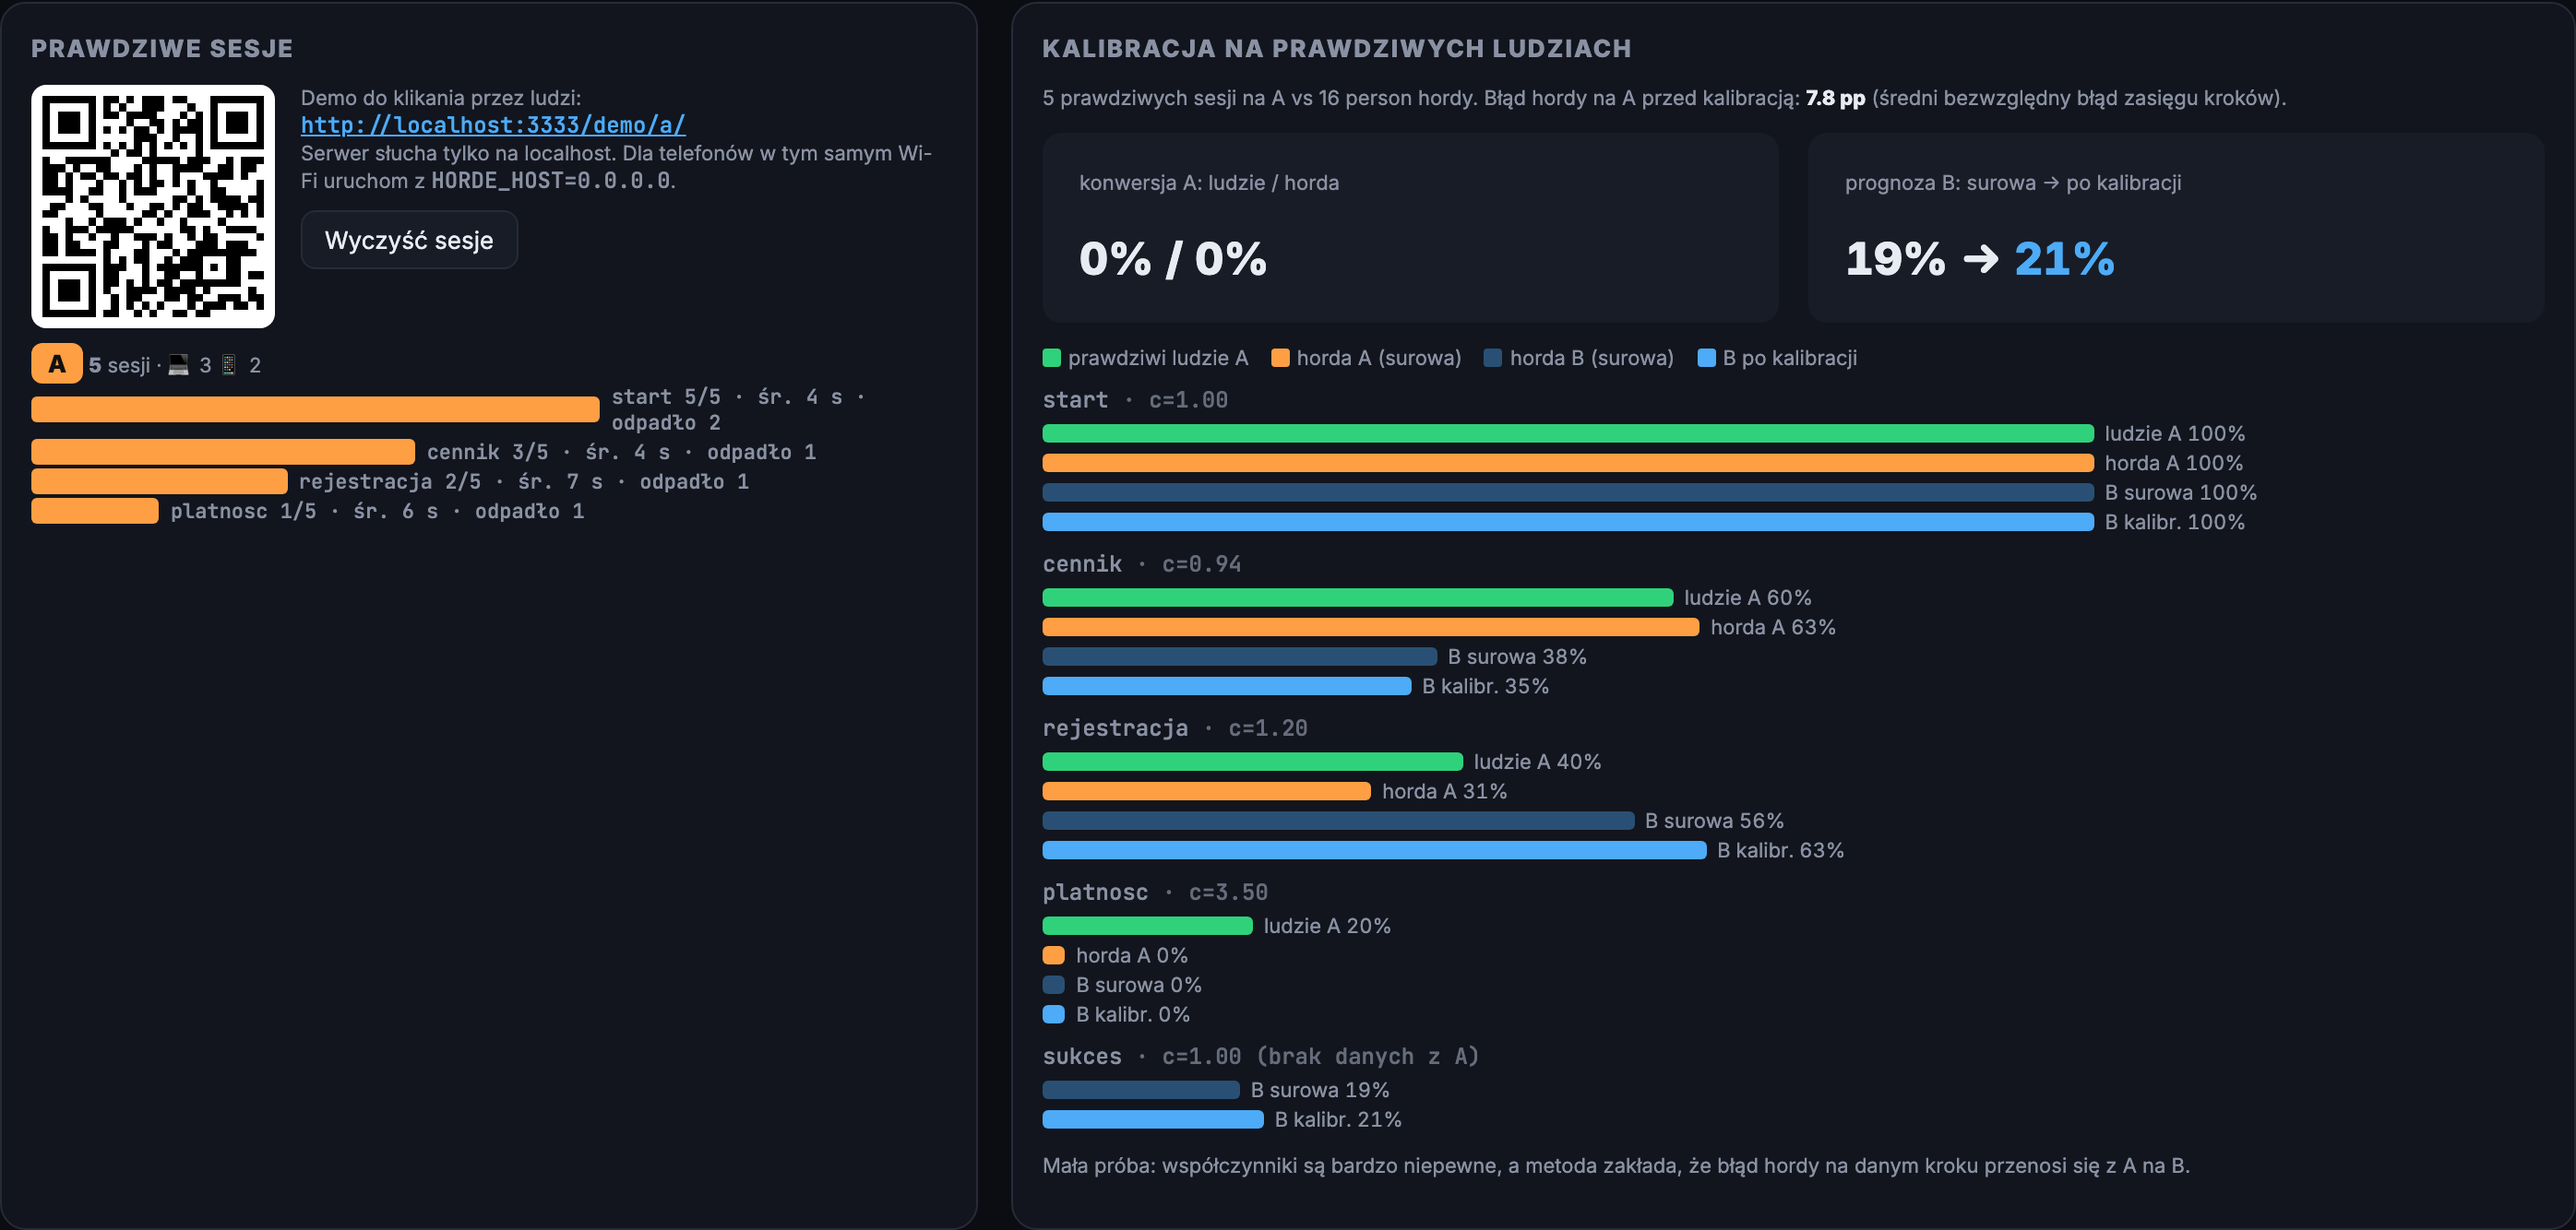
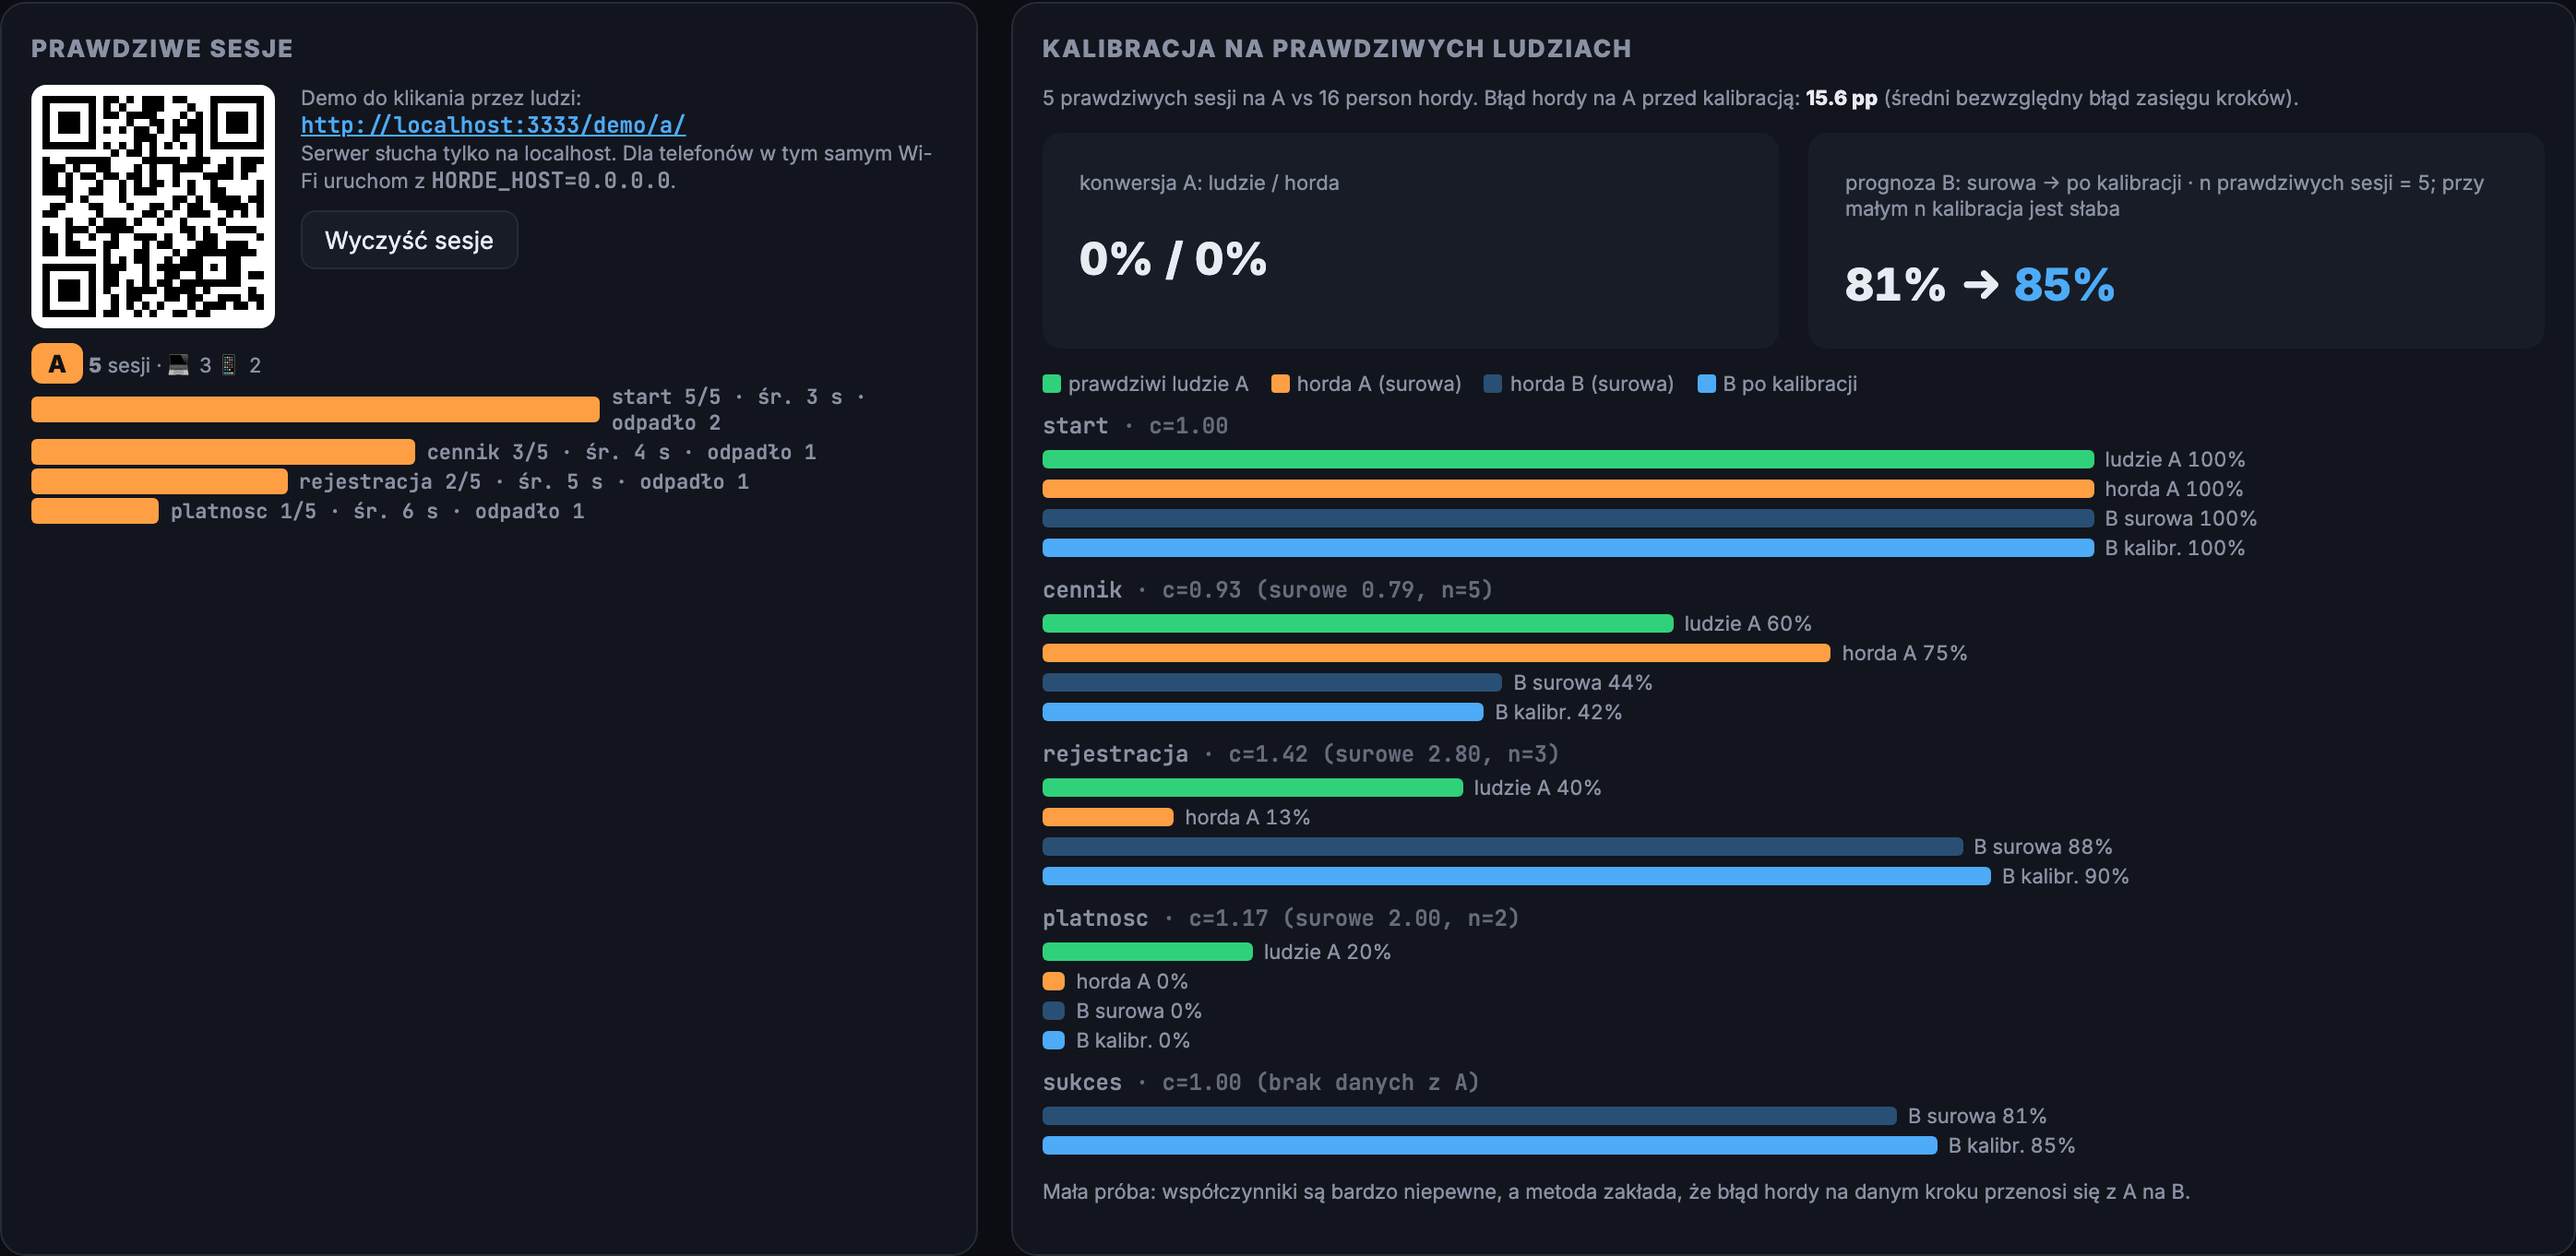
Horda: kalibracja ściągana do 1 przy małym n, w skali szans

diff --git a/horda/lib/sessions.js b/horda/lib/sessions.js
@@ -84,8 +84,9 @@ export function twinPersonas(personas, sessions, goal) {
 }
 
 // Kalibracja: porównujemy zasięg kroków lejka na A (prawdziwi ludzie vs horda) i przenosimy poprawkę na B.
-// c_k = real_cont_k / horde_cont_k, gdzie cont_k = (n_k + 1) / (n_{k-1} + 2) (wygładzenie Laplace'a), c_k ∈ [0.2, 5].
-// Prognoza B: zasięg kroku k = surowy zasięg B × iloczyn c_j po krokach B do k (kroki spoza A mają c = 1).
+// c_k = real_cont_k / horde_cont_k, gdzie cont_k = (n_k + 1) / (n_{k-1} + 2) (wygładzenie Laplace'a), surowe c_k ∈ [0.2, 5],
+// potem ściągnięte do 1: c_k = 1 + (c_k - 1) · n / (n + 10), n = prawdziwe sesje na kroku k-1, i przycięte do [0.5, 2].
+// Prognoza B: szanse zasięgu kroku k = szanse surowego zasięgu B × iloczyn c_j po krokach B do k (kroki spoza A mają c = 1).
 export function calibrate(realSessionsA, run, goal = 'sukces') {
   const results = run.results.filter(r => r.converted || !['limit_budzetu', 'blad_modelu', 'przerwane'].includes(r.reason));
   const hA = results.filter(r => r.variant === 'A'), hB = results.filter(r => r.variant === 'B');
@@ -98,19 +99,25 @@ export function calibrate(realSessionsA, run, goal = 'sukces') {
   const count = (paths, st) => paths.filter(p => p.includes(st)).length;
   const realPaths = realSessionsA.map(s => s.path), aPaths = hA.map(r => r.path), bPaths = hB.map(r => r.path);
   const stepsA = order.filter(st => count(realPaths, st) || count(aPaths, st));
-  const factor = {};
+  const factor = {}, rawFactor = {}, nReal = {};
   stepsA.forEach((st, k) => {
     if (k === 0) { factor[st] = 1; return; }
     const prev = stepsA[k - 1];
-    const realCont = (count(realPaths, st) + 1) / (count(realPaths, prev) + 2);
+    const nPrev = count(realPaths, prev);
+    const realCont = (count(realPaths, st) + 1) / (nPrev + 2);
     const hordeCont = (count(aPaths, st) + 1) / (count(aPaths, prev) + 2);
-    factor[st] = Math.max(0.2, Math.min(5, realCont / hordeCont));
+    const raw = Math.max(0.2, Math.min(5, realCont / hordeCont));
+    // Ściąganie do 1 przy małej próbie: przy n prawdziwych sesjach na poprzednim kroku zostaje n/(n+10) poprawki.
+    factor[st] = Math.max(0.5, Math.min(2, 1 + (raw - 1) * nPrev / (nPrev + 10)));
+    rawFactor[st] = raw; nReal[st] = nPrev;
   });
   const steps = order.map(st => ({
     step: st,
     realA: count(realPaths, st) / realPaths.length,
     hordeA: count(aPaths, st) / aPaths.length,
     c: factor[st] ?? 1,
+    cRaw: rawFactor[st] ?? 1,
+    nPrev: nReal[st] ?? null,
     inA: st in factor,
   }));
   const errSteps = steps.filter(s => s.inA);
@@ -121,7 +128,10 @@ export function calibrate(realSessionsA, run, goal = 'sukces') {
       s.rawB = count(bPaths, s.step) / bPaths.length;
       if (!s.rawB) { s.calB = 0; continue; }
       cum *= s.c;
-      s.calB = Math.max(0, Math.min(1, s.rawB * cum));
+      // Poprawkę nakładamy na szanse (odds), nie na prawdopodobieństwo: jak przesunięcie w skali logit u Platta,
+      // więc wynik zostaje w (0, 1) i nie nasyca się na 100% przy wysokim surowym zasięgu.
+      const odds = s.rawB >= 1 ? Infinity : s.rawB / (1 - s.rawB) * cum;
+      s.calB = odds === Infinity ? 1 : odds / (1 + odds);
     }
   }
   const goalStep = steps.find(s => s.step.includes(goal));

diff --git a/horda/public/index.html b/horda/public/index.html
@@ -241,10 +241,10 @@ function drawCalibration(c) {
   $('calCard').classList.remove('hidden');
   const C = { real: 'var(--ok)', hA: 'var(--a)', rawB: '#4dabf766', calB: 'var(--b)' };
   const bar = (x, col, lbl) => x == null ? '' : `<div class="fb"><i style="width:${Math.max(1.5, 70 * x)}%;background:${col}"></i><span>${lbl} ${pct(x)}</span></div>`;
-  const conv = c.conv ? `<div class="vs"><div><div class="ci">konwersja A: ludzie / horda</div><div class="big" style="font-size:24px">${pct(c.conv.realA)} / ${pct(c.conv.hordeA)}</div></div>${c.conv.rawB != null ? `<div><div class="ci">prognoza B: surowa → po kalibracji</div><div class="big" style="font-size:24px">${pct(c.conv.rawB)} → <span style="color:var(--b)">${pct(c.conv.calB)}</span></div></div>` : ''}</div>` : '';
+  const conv = c.conv ? `<div class="vs"><div><div class="ci">konwersja A: ludzie / horda</div><div class="big" style="font-size:24px">${pct(c.conv.realA)} / ${pct(c.conv.hordeA)}</div></div>${c.conv.rawB != null ? `<div><div class="ci">prognoza B: surowa → po kalibracji · n prawdziwych sesji = ${c.nReal}${c.nReal < 30 ? '; przy małym n kalibracja jest słaba' : ''}</div><div class="big" style="font-size:24px">${pct(c.conv.rawB)} → <span style="color:var(--b)">${pct(c.conv.calB)}</span></div></div>` : ''}</div>` : '';
   $('calBody').innerHTML = `<div class="ci">${c.nReal} prawdziwych sesji na A vs ${c.nHordeA} person hordy. Błąd hordy na A przed kalibracją: <b style="color:var(--fg)">${c.maeBefore.toFixed(1)} pp</b> (średni bezwzględny błąd zasięgu kroków).</div>${conv}
   <div class="leg"><span><b style="background:${C.real}"></b>prawdziwi ludzie A</span><span><b style="background:${C.hA}"></b>horda A (surowa)</span><span><b style="background:${C.rawB}"></b>horda B (surowa)</span><span><b style="background:${C.calB}"></b>B po kalibracji</span></div>
-  ${c.steps.map(s => `<div class="fstep"><div class="lbl">${esc(s.step)} <span style="opacity:.7">· c=${s.c.toFixed(2)}${s.inA ? '' : ' (brak danych z A)'}</span></div>${s.inA ? bar(s.realA, C.real, 'ludzie A') + bar(s.hordeA, C.hA, 'horda A') : ''}${bar(s.rawB, C.rawB, 'B surowa')}${bar(s.calB, C.calB, 'B kalibr.')}</div>`).join('')}
+  ${c.steps.map(s => `<div class="fstep"><div class="lbl">${esc(s.step)} <span style="opacity:.7">· c=${s.c.toFixed(2)}${s.inA && s.cRaw != null && Math.abs(s.cRaw - s.c) > 0.005 ? ` (surowe ${s.cRaw.toFixed(2)}, n=${s.nPrev})` : ''}${s.inA ? '' : ' (brak danych z A)'}</span></div>${s.inA ? bar(s.realA, C.real, 'ludzie A') + bar(s.hordeA, C.hA, 'horda A') : ''}${bar(s.rawB, C.rawB, 'B surowa')}${bar(s.calB, C.calB, 'B kalibr.')}</div>`).join('')}
   <p class="ci">Mała próba: współczynniki są bardzo niepewne, a metoda zakłada, że błąd hordy na danym kroku przenosi się z A na B.</p>`;
 }
 loadSessions();

diff --git a/horda/README.md b/horda/README.md
@@ -83,9 +83,12 @@ Uwaga: bliźniak „zna” prawdziwą ścieżkę na A, więc jego wynik na A nie
 
 **Kalibracja** (sekcja „Kalibracja na prawdziwych ludziach”, gdy są sesje na A i jest przebieg hordy): dla każdego
 kroku lejka A liczymy prawdopodobieństwo przejścia dalej u ludzi i u hordy, z wygładzeniem Laplace'a
-`cont_k = (n_k + 1) / (n_{k-1} + 2)`, i współczynnik `c_k = cont_ludzie / cont_horda` (przycięty do 0,2–5).
+`cont_k = (n_k + 1) / (n_{k-1} + 2)`, i współczynnik `c_k = cont_ludzie / cont_horda` (przycięty do 0,2–5), który potem ściągamy do 1 zależnie od liczby
+prawdziwych sesji `n` na poprzednim kroku: `c_k = 1 + (c_k − 1) · n / (n + 10)`, przycięte do 0,5–2 (przy 5 sesjach zostaje
+1/3 poprawki, przy 90 sesjach 90%). Bez tego kilka sesji potrafiło wypchnąć prognozę B do 100%.
 Te same współczynniki (po nazwie kroku; kroki, których nie ma na A albo bez danych, dostają 1) mnożą zasięg kroków
-hordy na B: zasięg_k(B) = surowy zasięg_k(B) × iloczyn c_j po krokach B do k. Panel pokazuje dla każdego kroku ludzi A,
+hordy na B w skali szans (odds): odds(zasięg_k(B)) = odds(surowy zasięg_k(B)) × iloczyn c_j po krokach B do k, czyli
+przesunięcie w skali logit jak w kalibracji Platta; dzięki temu prognoza nie przekracza 100%. Panel pokazuje dla każdego kroku ludzi A,
 hordę A, surową hordę B i B po kalibracji, prognozę konwersji B przed/po oraz błąd hordy na A przed kalibracją
 (średni bezwzględny błąd zasięgu kroków w punktach procentowych).
 
